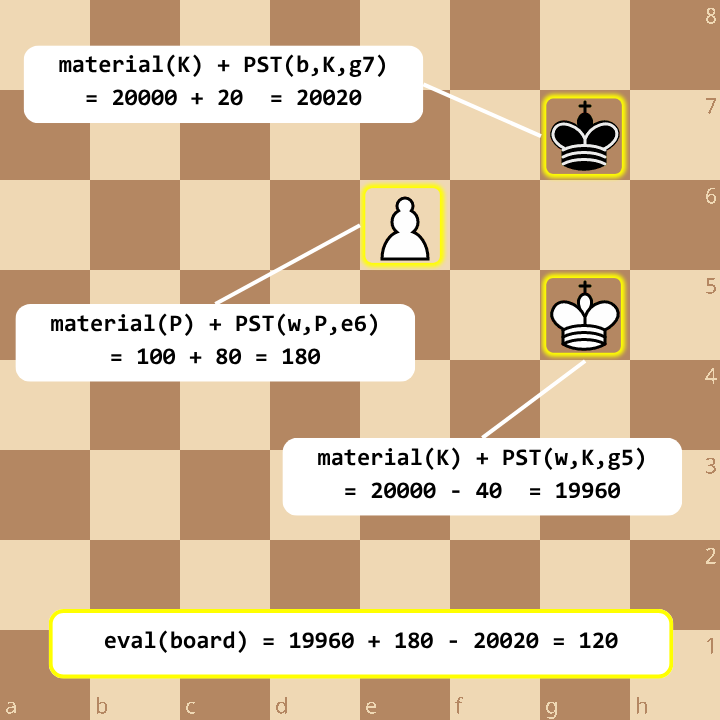
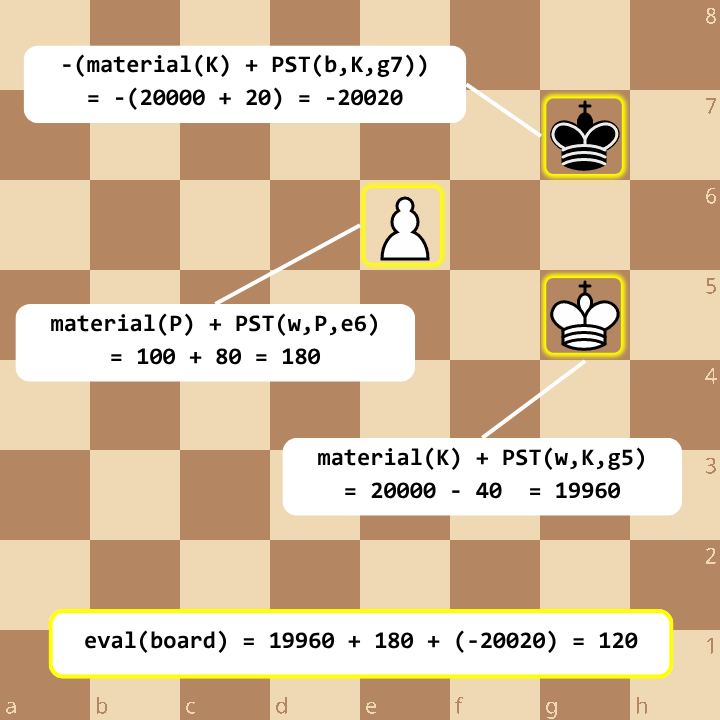
refine evaluation

Changed region(s): [[0.0917, 0.0611, 0.7333, 0.1833], [0.1222, 0.8556, 0.8861, 0.9167]]

diff --git a/_drafts/quackmate.md b/_drafts/quackmate.md
@@ -232,7 +232,8 @@ WHERE NOT EXISTS (
 
 ### Board Evaluation
 
-Once the engine reaches its maximum search depth, it has to stop looking ahead and simply judge the resulting position. This "static evaluation" provides the heuristic score that tells the engine whether a sequence of moves was brilliant or disastrous. To do this, Quack-Mate utilizes [Tomasz Michniewski's Simplified Evaluation Function](https://www.chessprogramming.org/Simplified_Evaluation_Function), a famous set of Piece-Square Tables (PST) designed to give an engine basic positional understanding (like centralising knights and castling the king) without requiring complex heuristic logic.
+Once the engine reaches its maximum search depth, it has to stop looking ahead and simply judge the resulting position. This "static evaluation" provides the heuristic score that tells the engine whether the sequence of moves that led to the current board was brilliant or disastrous. To do this, Quack-Mate utilizes material values (the static value assigned to each piece type) and [Tomasz Michniewski's Simplified Evaluation Function](https://www.chessprogramming.org/Simplified_Evaluation_Function), a famous set of Piece-Square Tables (PST) designed to give an engine basic positional understanding (like centralising knights and castling the king) without requiring complex heuristic logic.
+A simple sum of all material and PST values (positive for white, negative for black) determines the total board value.
 
 <img src="/assets/images/quackmate_board_eval_pst.png" alt="Diagram showing board evaluation with Piece-Square Tables" width="450" style="display: block; margin: 0 auto;"/>
 